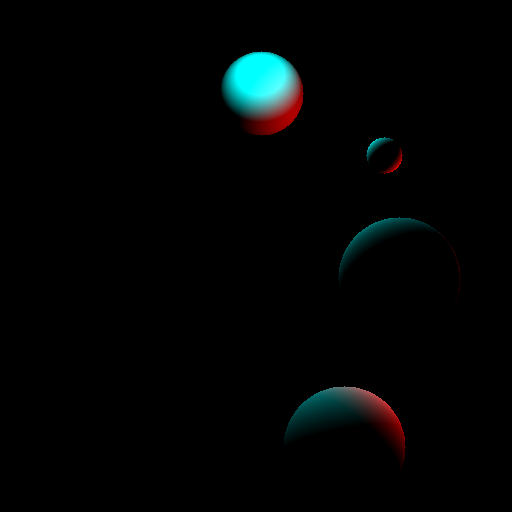
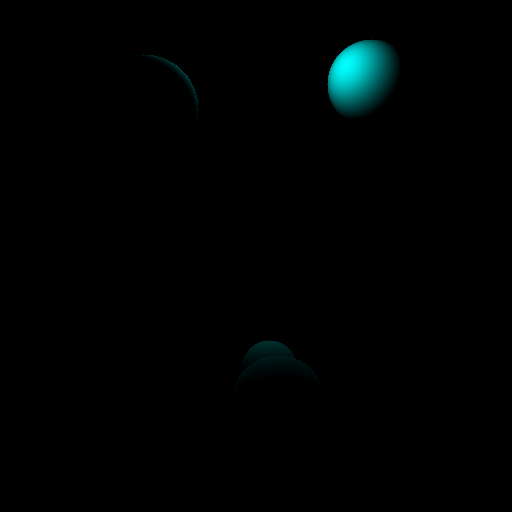
ajout albedo spheres

diff --git a/Projet_SI_1/Projet_SI_1/Projet_SI_1.cpp b/Projet_SI_1/Projet_SI_1/Projet_SI_1.cpp
@@ -12,6 +12,7 @@
 #include <ctime>
 #include "Light.h"
 #include <algorithm>
+#include <math.h>
 #pragma exp parallel for
 
 const int width = 512;
@@ -60,10 +61,10 @@ int main()
 
 	std::srand(std::time(nullptr));
 
-	
+	Vec3<float> albedo = { 0,1,1 };
 
 	std::vector<Light> lights;
-	int nbLights = 1000;
+	int nbLights = 100;
 	RGBQUAD lightColor1;
 	lightColor1.rgbRed = 0;
 	lightColor1.rgbGreen = 255;
@@ -76,19 +77,21 @@ int main()
 	lightColor2.rgbBlue = 0;
 	lightColor2.rgbReserved = 255;
 
-	int intensity = 200;
+
+	int intensity = 22500;
+
 	for (int i = 0; i < nbLights; i++)
 	{
 		float x = 251 + std::rand() % 10;
 		float y = 507 + std::rand() % 10;
 		float z = 251 + std::rand() % 10;
-		Vec3<float> lightPos = {x,y,z};
-		lights.push_back(Light(lightPos,lightColor1,intensity));
+		Vec3<float> lightPos = { x,y,z };
+		lights.push_back(Light(lightPos, lightColor1, intensity));
 	}
 	for (int i = 0; i < nbLights; i++)
 	{
 		float x = 507 + std::rand() % 10;
-		float y = 251 + std::rand() % 10;
+		float y = 507 + std::rand() % 10;
 		float z = 251 + std::rand() % 10;
 		Vec3<float> lightPos = { x,y,z };
 		lights.push_back(Light(lightPos, lightColor2, intensity));
@@ -98,16 +101,16 @@ int main()
 	std::vector<Sphere> spheres;
 	for (int i = 0; i < nbSpheres; i++)
 	{
-		int r = 16+std::rand()%48;
-		float x = 64+std::rand() % 384;
-		float y = 64+std::rand() % 384;
-		float z = 64+std::rand() % 384;
+		int r = 16 + std::rand() % 48;
+		float x = 64 + std::rand() % 384;
+		float y = 64 + std::rand() % 384;
+		float z = 64 + std::rand() % 384;
 		Vec3<float> c = { x, y, z };
-		Sphere s(c, r);
+		Sphere s(c, r,albedo);
 		spheres.push_back(s);
-		std::cout << c  <<r<< std::endl;
+		std::cout << c << r << std::endl;
 	}
-	
+
 
 
 	FreeImage_Initialise();
@@ -173,12 +176,12 @@ int main()
 					}
 					if (!gotIntersected)
 					{
-						float scal = dot(dirLight, normale) / (norm(dirLight) * norm(normale));
+						float scal = std::abs(dot(dirLight, normale) / (norm(dirLight) * norm(normale)));
 
 
-						colorR += lights[i].intensity * scal * lights[i].color.rgbRed / (nbLights* lightDistance);
-						colorG += lights[i].intensity * scal * lights[i].color.rgbGreen / (nbLights * lightDistance);
-						colorB += lights[i].intensity * scal * lights[i].color.rgbBlue / (nbLights * lightDistance);
+						colorR += spheres[intersectedSphere].albedo.x * lights[i].intensity * scal * lights[i].color.rgbRed / (nbLights * lightDistance * lightDistance);
+						colorG += spheres[intersectedSphere].albedo.y *lights[i].intensity * scal * lights[i].color.rgbGreen / (nbLights * lightDistance * lightDistance);
+						colorB += spheres[intersectedSphere].albedo.z * lights[i].intensity * scal * lights[i].color.rgbBlue / (nbLights * lightDistance * lightDistance);
 					}
 					else
 					{
@@ -193,12 +196,13 @@ int main()
 			color.rgbBlue = std::clamp((int)colorB, 0, 255);
 
 			FreeImage_SetPixelColor(bitmap, i, j, &color);
-		}		
+		}
 	}
 
 	FreeImage_Save(FIF_PNG, bitmap, "c_bo.png");
 
 	FreeImage_DeInitialise();
 }
+
 
 

diff --git a/Projet_SI_1/Projet_SI_1/Sphere.h b/Projet_SI_1/Projet_SI_1/Sphere.h
@@ -7,10 +7,12 @@ class Sphere
 public : 
 	Vec3<float> center;
 	float ray;
+	Vec3<float> albedo;
 
-	Sphere(Vec3<float> position, float rayon)
+	Sphere(Vec3<float> position, float rayon,Vec3<float> a)
 	{
 		center = position;
 		ray = rayon;
+		albedo = a;
 	}
 };
